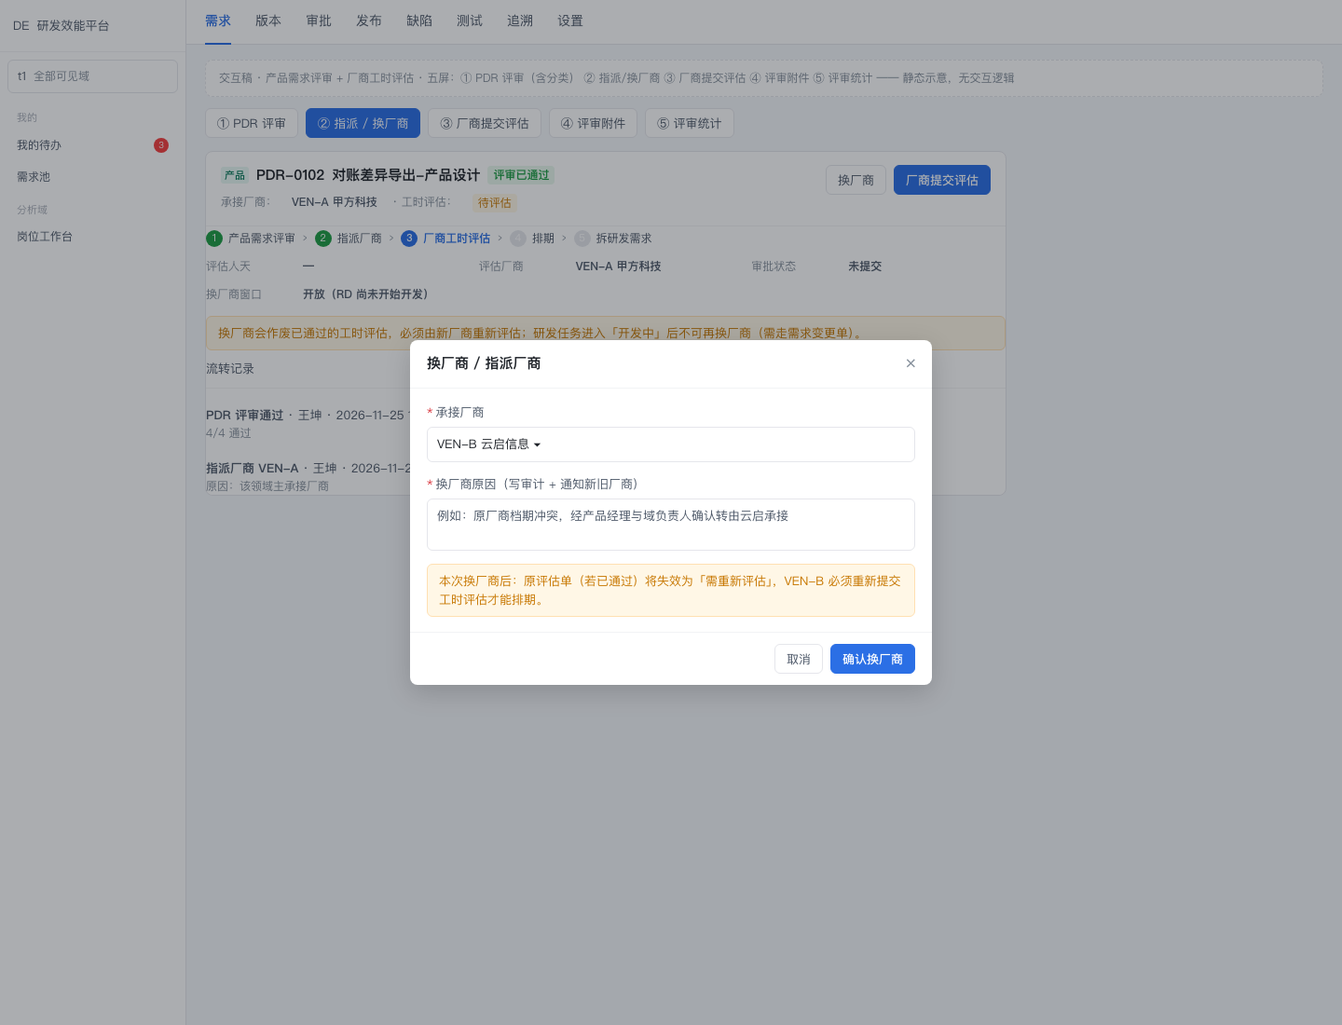
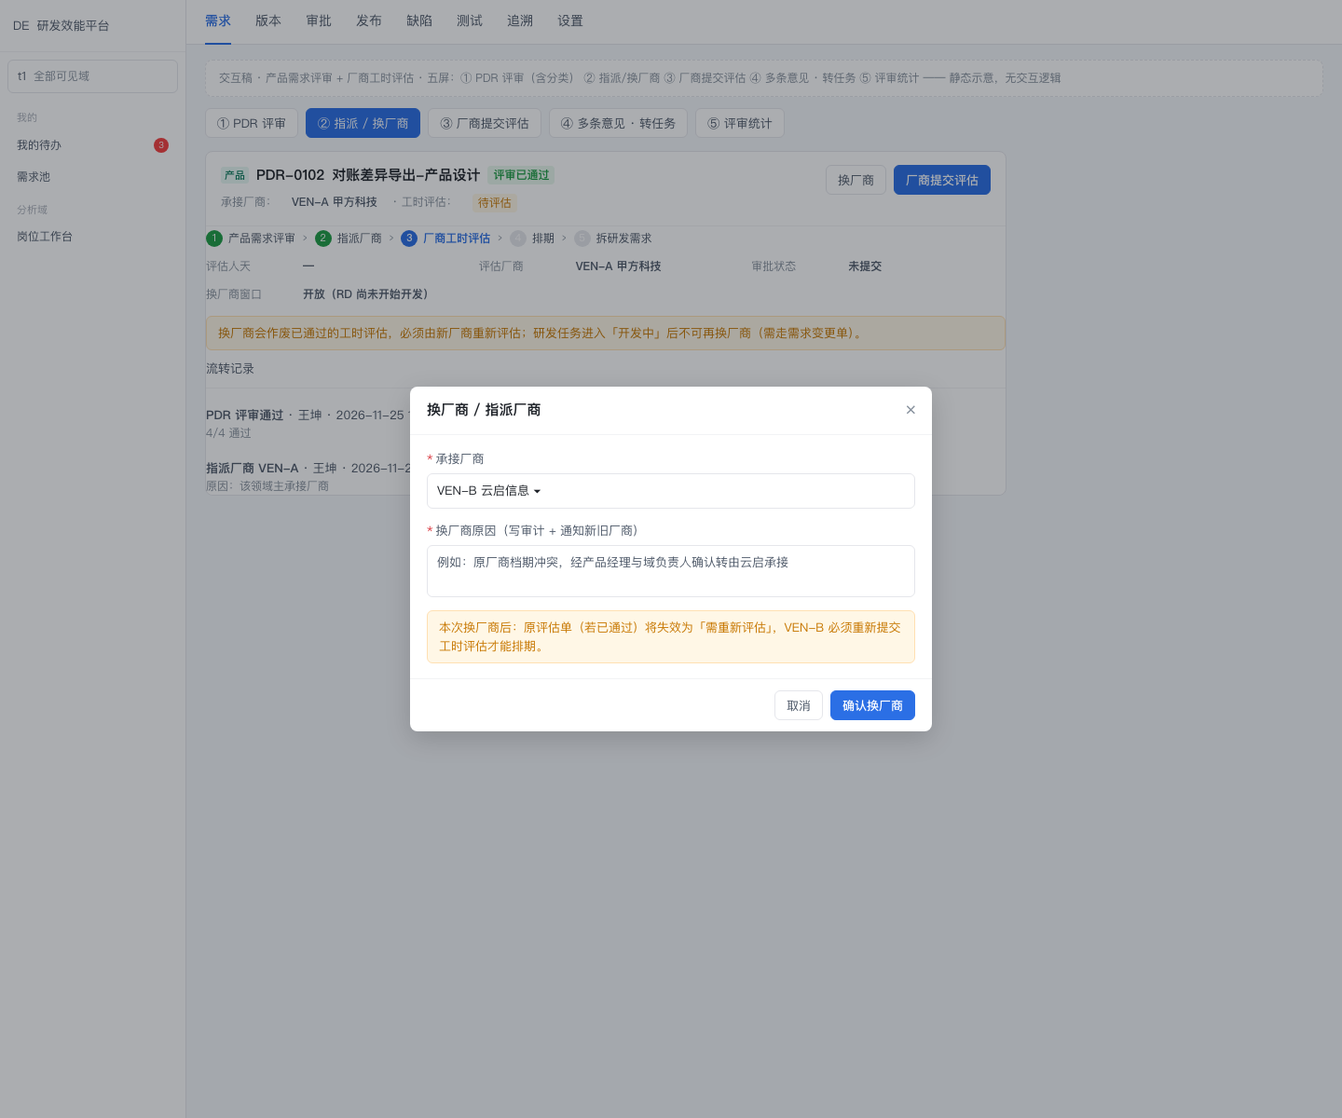
docs: 评审意见支持多条（每人 N 条、各自分类/结论/附件/状态）+ 意见一键转任务（复用交付任务表、回写 task_id、审计与重复转 409），补 D1–D4 验收与第 4 屏

diff --git a/docs/teamflow/prototype-pdr-review/index.html b/docs/teamflow/prototype-pdr-review/index.html
@@ -74,12 +74,12 @@
   <div class="main">
     <div class="topnav"><a class="active">需求</a><a>版本</a><a>审批</a><a>发布</a><a>缺陷</a><a>测试</a><a>追溯</a><a>设置</a></div>
     <div class="page">
-      <div class="proto-bar">交互稿 · 产品需求评审 + 厂商工时评估 · 五屏：① PDR 评审（含分类） ② 指派/换厂商 ③ 厂商提交评估 ④ 评审附件 ⑤ 评审统计 —— 静态示意，无交互逻辑</div>
+      <div class="proto-bar">交互稿 · 产品需求评审 + 厂商工时评估 · 五屏：① PDR 评审（含分类） ② 指派/换厂商 ③ 厂商提交评估 ④ 多条意见 · 转任务 ⑤ 评审统计 —— 静态示意，无交互逻辑</div>
       <div class="switcher">
         <button class="btn on" data-sec="s1">① PDR 评审</button>
         <button class="btn" data-sec="s2">② 指派 / 换厂商</button>
         <button class="btn" data-sec="s3">③ 厂商提交评估</button>
-        <button class="btn" data-sec="s4">④ 评审附件</button>
+        <button class="btn" data-sec="s4">④ 多条意见 · 转任务</button>
         <button class="btn" data-sec="s5">⑤ 评审统计</button>
       </div>
 
@@ -349,39 +349,62 @@
         </div>
       </section>
 
-      <!-- ============ 屏 4：评审附件 ============ -->
+      <!-- ============ 屏 4：多条意见 · 转任务 ============ -->
       <section class="sec" id="s4">
-        <div class="panel" style="max-width:860px">
-          <div class="detail-head">
-            <div>
-              <div class="detail-title"><span class="tag tag-pdr">产品</span> <span class="mono">PDR-0102</span> 对账差异导出-产品设计 <span class="pill pill-blue">评审中</span></div>
-              <div class="meta">当前登录：<b>陈晓 · 研发负责人（评审人）</b> · 评审单 #R-2081 · 截止 2026-11-27</div>
-            </div>
-            <div class="head-actions"><button class="btn">下载全部（3）</button></div>
+        <div class="page-head"><div class="page-title">评审意见 · 可一次提多条，逐条可转任务</div><div class="head-actions"><button class="btn">查看全部 6 条</button></div></div>
+        <div class="panel">
+          <div class="detail-head" style="border:0;padding-bottom:8px">
+            <div><span class="tag tag-pdr">产品</span> <b>PDR-0102</b> <span class="pill pill-blue">评审中</span>
+              <span class="muted" style="margin-left:8px">评审单 #R-2081 · 截止 2026-11-27</span></div>
+            <div class="muted">陈晓 · 研发负责人（评审人）</div>
           </div>
-
-          <div class="warn">附件只有「本次评审的评审人 / 发起人」能在评审进行中上传；评审结束后只读，下载仍走鉴权（越权 404）。</div>
-
-          <div class="panel" style="border:none">
-            <div class="panel-head" style="padding:0 0 10px"><span>我的评审意见</span><span class="muted">提交后可修改，直到结论生成</span></div>
-            <div class="field"><label>意见分类（必选，用于统计）</label>
-              <div class="cats"><span class="c">范围 / 需求理解</span><span class="c sel">技术可行性</span><span class="c">工期 / 排期</span><span class="c">风险 / 依赖</span><span class="c">验收标准</span><span class="c">界面 / 交互</span><span class="c">数据 / 兼容</span><span class="c">合规 / 安全</span><span class="c">其他</span></div>
+          <div class="hint warn" style="margin:0 0 12px">同一人可提多条；每条独立分类/结论/附件。评审结论仍按「全员通过」判定，不因多条放大票数。</div>
+          <div class="panel-body">
+            <div class="row" style="justify-content:space-between;margin-bottom:10px">
+              <b>我的意见（2 条）</b><button class="btn">+ 再加一条</button>
             </div>
-            <div class="field"><label>结论</label>
-              <div class="member-pick"><span class="m">通过</span><span class="m sel">需修改</span><span class="m">驳回</span></div>
-            </div>
-            <div class="field"><label>意见</label>
-              <div class="input" style="min-height:64px">导出走异步任务更稳，10 万行以内要能 1 分钟内完成；附上压测数据。</div>
-            </div>
-            <div class="field" style="margin:0">
-              <label>附件（最多 5 个，单个 ≤ 20MB）</label>
-              <div class="upload">＋ 上传附件（pdf / docx / xlsx / png / jpg / zip / csv / md）</div>
-              <div class="attach">
-                <span class="a"><span class="ic">XLS</span>10万行压测结果.xlsx · 620 KB</span>
-                <span class="a"><span class="ic">PDF</span>导出方案-v3.pdf · 1.8 MB</span>
+            <div class="card-item" style="cursor:default;border:1px solid var(--divider);background:#fff">
+              <div class="row" style="gap:8px;align-items:center">
+                <span class="muted">第 1 条</span><span class="cat on">技术可行性</span>
+                <span class="pill pill-orange">需修改</span>
+                <span class="muted" style="margin-left:auto">已转任务 <b>#1024</b></span>
               </div>
+              <div style="margin:8px 0;font-size:13px">导出走异步任务更稳，10 万行以内要能 1 分钟内完成；附压测数据。</div>
+              <div class="row" style="gap:6px"><span class="file">XLS 10万行压测结果.xlsx · 620 KB</span><span class="file">PDF 导出方案-v3.pdf · 1.8 MB</span></div>
+              <div class="row" style="margin-top:10px"><button class="btn" disabled>已转任务</button></div>
             </div>
-            <div class="modal-foot" style="border:none;padding:12px 0 0"><button class="btn">取消</button><button class="btn btn-primary">提交意见</button></div>
+            <div class="card-item" style="cursor:default;border:1px solid var(--divider);background:#fff">
+              <div class="row" style="gap:8px;align-items:center">
+                <span class="muted">第 2 条</span><span class="cat">验收标准</span>
+                <span class="pill pill-green">通过</span>
+                <span class="muted" style="margin-left:auto">待处理</span>
+              </div>
+              <div style="margin:8px 0;font-size:13px">建议把「导出字段与页面表头逐字一致」写进验收标准，避免后续口径漂移。</div>
+              <div class="row" style="gap:8px;margin-top:8px"><button class="btn">转为任务</button><button class="btn">撤回</button></div>
+            </div>
+            <div class="card-item" style="cursor:default;border-style:dashed;background:#FAFBFC">
+              <div class="row" style="gap:8px;align-items:center">
+                <span class="muted">新的一条</span><span class="cat on">范围 / 需求理解</span>
+                <span class="pill pill-gray">通过</span>
+              </div>
+              <textarea class="input" rows="2" style="width:100%;margin-top:8px">范围里写清「支持导出格式 = CSV / XLSX」，不要写"常见格式"。</textarea>
+              <div class="row" style="gap:8px;margin-top:8px"><span class="file">+ 上传附件</span><span class="muted">最多 5 个，单个 ≤20MB</span></div>
+            </div>
+            <div class="row" style="justify-content:flex-end;gap:8px;margin-top:12px">
+              <button class="btn">取消</button><button class="btn btn-primary">提交 3 条意见</button>
+            </div>
+            <div class="muted" style="margin-top:10px">评审关闭后不能再新增/修改意见，但已提意见仍可转任务（复盘落地）。</div>
+          </div>
+        </div>
+        <div class="panel" style="margin-top:12px">
+          <div class="panel-head"><span>「转为任务」弹层</span><span class="muted">缺省从意见推导，可改</span></div>
+          <div class="panel-body">
+            <div class="kv"><div class="k">任务标题</div><div class="v">导出改异步任务，10 万行 1 分钟内完成</div>
+              <div class="k">负责人</div><div class="v">陈晓 · DEV</div>
+              <div class="k">截止日期</div><div class="v">2026-12-02</div>
+              <div class="k">关联需求</div><div class="v">PDR-0102（源自评审 #R-2081）</div>
+              <div class="k">说明</div><div class="v">自动带「来源：PDR 评审 · 分类：技术可行性 · 原文」，可追加</div></div>
+            <div class="row" style="justify-content:flex-end;gap:8px;margin-top:10px"><button class="btn">取消</button><button class="btn btn-primary">创建任务</button></div>
           </div>
         </div>
       </section>

diff --git a/docs/teamflow/CHANGE-PDR-REVIEW-VENDOR-ESTIMATE.md b/docs/teamflow/CHANGE-PDR-REVIEW-VENDOR-ESTIMATE.md
@@ -89,7 +89,7 @@
 | `project` | `id, tenant_id, code, name, domain_id, owner_user_id, status(ACTIVE/ARCHIVED), created_at` | `uk(tenant_id, code)`；`idx(tenant_id, domain_id)` |
 | `project_member` | `id, tenant_id, project_id, user_id, role_in_project(PO/PM/DEV/QA/SME), active, joined_at` | `uk(project_id, user_id)`；`idx(tenant_id, user_id)` |
 | `pdr_review` | `id, tenant_id, requirement_id, project_id, instance_id, status(DRAFT/IN_REVIEW/PASSED/REJECTED/CANCELLED), conclusion, initiator_id, created_at, closed_at` | **`uk(requirement_id) where status='IN_REVIEW'`**（同一需求同时只允许 1 张在评）；`idx(tenant_id, status)` |
-| `pdr_review_opinion` | `id, tenant_id, review_id, reviewer_id, decision(PASS/NEED_CHANGE/REJECT), **category**, comment, created_at` | `uk(review_id, reviewer_id)`；`idx(tenant_id, category)`（统计用） |
+| `pdr_review_opinion` | `id, tenant_id, review_id, reviewer_id, seq(该评审人第几条), decision(PASS/NEED_CHANGE/REJECT), **category**, comment, **status(OPEN/TASKED/RESOLVED)**, **task_id**, created_at` | **不做 (review_id, reviewer_id) 唯一约束**（同一人可提多条）；`idx(review_id)`、`idx(tenant_id, category)`、`idx(task_id)` |
 
 ### 4.2 评审附件（复用既有附件表，不新增表）
 
@@ -134,6 +134,26 @@
 - 评审人维度：每人发起/参与/意见数/需修改比例。
 - 维度表：`pdr_review`（评审单）、`pdr_review_opinion`（意见）作为新数据集进分析域，供 `/reports` 自助报表与看板直接取数（复用既有 `AnalyticsDatasets` 白名单机制，**不写第二套 SQL 引擎**）。
 
+### 4.5 多条意见与「意见转任务」
+
+**为什么允许多条**：一条评审意见通常只针对一个点（范围、性能、验收口径……），把它们塞进一段文字里，既无法分类统计，也无法逐条跟踪闭环。所以：
+
+- 同一次评审、同一个人可以提 **N 条意见**（`seq` 递增，不设唯一约束），每条独立拥有 `category / decision / comment / 附件 / status`；
+- **评审结论仍由评审单整体判定**（`MODE_ALL` 等），不因某人不通过而"每人只能一条"——多条意见属于"一个人提了几个问题"，不是"投了几票"；统计口径里"意见"与"评审单"分开算（见 4.4）。
+- 每条意见有生命周期：`OPEN`（待处理）→ `TASKED`（已转任务）→ `RESOLVED`（任务完成/问题消除）；`decision=REJECT` 的意见可标 `RESOLVED` 结案，不必都转任务。
+
+**意见转任务**（把评审结论变成可执行动作，闭环的关键）：
+
+| 项 | 说明 |
+|---|---|
+| 端点 | `POST /pdr-reviews/{reviewId}/opinions/{opinionId}/to-task` |
+| 请求 | `{assigneeId?, dueDate?, estimateHours?, title?, description?}`（都可选，缺省从意见推导） |
+| 落库 | 复用交付域 `task` 表（`deliver-service`）：`title` 缺省取意见前 40 字、`description` 带「来源：PDR 评审 #reviewId · 分类 · 原文」、`requirementId` 挂该 PDR 的父 RD 或 PDR 本身（PDR 无任务归属时挂 PDR） |
+| 回写 | `pdr_review_opinion.task_id` = 新任务 id、`status = TASKED`；写入 `audit_log`（`PDR_OPINION_TO_TASK`，detail 带 opinionId/taskId/category） |
+| 限制 | 已转过的意见再转 → `409 OPINION_ALREADY_TASKED`（detail 带既有 `taskId`）；非本评审评审人且非产品经理 → `403 NOT_ALLOWED`；**评审结束后仍可转任务**（复盘落地属后续动作，不随评审关闭而禁止） |
+| 可见性 | 任务继承 `ScopeSql` 行级隔离；厂商评审人转出的任务只能落在本厂商承接范围（越界 `403 OUT_OF_SCOPE`） |
+| 统计 | `/pdr-reviews/stats` 增加 `taskedCount` 与「意见闭环率 = TASKED+RESOLVED / 全部意见」两个度量 |
+
 ## 5. 接口变更
 
 ### 5.1 新增
@@ -146,6 +166,8 @@
 | `POST` | `/pdr-reviews/{reviewId}/opinions` | 评审人提交意见：`{decision, **category**, comment}`（`category` 必填，非法值 400 `INVALID_CATEGORY`） | 动作码 `req.action.pdr_review_opinion` |
 | `POST` | `/pdr-reviews/{reviewId}/conclude` | 汇总结论（**也可以全票后自动汇总**，见 §6 R2） | 动作码 `req.action.pdr_review_conclude` |
 | `GET` | `/requirements/{id}/pdr-review` | 读评审单 + 意见列表 | 页面码 `req.pool` |
+| `POST` | `/pdr-reviews/{reviewId}/opinions/{opinionId}/to-task` | 意见转任务（见 4.5），返回 `{taskId, taskCode}` | 动作码 `req.action.pdr_review_task` |
+| `GET` | `/requirements/{id}/pdr-review/opinions` | 意见列表：支持 `?reviewerId&category&status&page&size`（多条意见分页） | 页面码 `req.pool` |
 | `GET` | `/pdr-reviews/stats` | 意见分类统计：`?domainId&from&to&groupBy=CATEGORY\|REVIEWER\|DECISION` → 计数 / 占比 / 平均评审时长 | 页面码 `req.pool`（读） |
 | `GET` | `/pdr-reviews/datasets` | 分析域数据集白名单元信息（`pdr_review`、`pdr_review_opinion`，含维度/度量） | 复用 `/reports/datasets` 机制 |
 
@@ -174,6 +196,7 @@
 - **R4 厂商评估**：厂商账号（`VENDOR_PM` 与厂商研发）可提交评估，且 `requirement.assignee_vendor_id == user.vendorId`，否则 `403 OUT_OF_SCOPE`；内部 PMO/研发**保留提交权**（缺省保留，便于兜底），但同样要求先指派厂商。
 - **R5 幂等与并发**：同一需求同时只有 1 张 `IN_REVIEW` 评审单、1 张 `ACTIVE` 评估单；并发发起/重复提交用唯一约束 + 409 兜底；换厂商与提交评估加乐观锁（`version`）避免「换厂商后立刻被旧厂商提交评估」。
 - **R7 评审附件**：`bizType=PDR_REVIEW` 时，服务层校验「调用者是本次评审的评审人或发起人」且「评审单状态 = IN_REVIEW」，否则 `403 NOT_REVIEWER` / `409 REVIEW_CLOSED`；上传沿用 20MB 上限与 `sha256`；类型白名单（缺省 `pdf/docx/xlsx/png/jpg/zip/csv/md`），非白名单 `415 UNSUPPORTED_MEDIA_TYPE`；**不落公开 URL**，下载一律过鉴权（越权 404，不泄露存在性）；评审结束后附件只读，删除 → 409 `REVIEW_CLOSED`。
+- **R8 多条意见与转任务**：`POST .../opinions` 不做「同人唯一」校验，每次新建一条（`seq` 自动递增，可一次提交多条 `opinions[]`）；`to-task` 只能由本评审评审人/产品经理发起、每 opinion 只成功一次（`409 OPINION_ALREADY_TASKED`）、任务创建与 `task_id` 回写同事务、跨服务失败回滚并返回 `503 TASK_CREATE_UNAVAILABLE`；评审单关闭后 `to-task` 仍可用，但禁止再新增/修改意见（`409 REVIEW_CLOSED`）。
 - **R6 审计**：`PDR_REVIEW_START` / `PDR_REVIEW_OPINION` / `PDR_REVIEW_REJECT` / `PDR_REVIEW_PASS` / `VENDOR_CHANGED` / `ESTIMATE_STALE_BY_VENDOR`，全部进动态流与追溯。
 
 ## 7. 权限与动作码
@@ -192,12 +215,13 @@
 ![PDR 评审](prototype-pdr-review/shot-1-pdr-review.png)
 ![指派/换厂商](prototype-pdr-review/shot-2-vendor-transfer.png)
 ![厂商提交评估](prototype-pdr-review/shot-3-vendor-estimate.png)
-![评审附件](prototype-pdr-review/shot-4-review-attachments.png)
+![多条意见与转任务](prototype-pdr-review/shot-4-opinions-to-task.png)
 ![评审统计](prototype-pdr-review/shot-5-review-stats.png)
 
 
 0. **意见分类**：提交意见时先选分类（9 个 chip，单选，必填），意见卡左上角展示分类标签；评审 tab 顶部一行「分类分布」小条形（范围 3 / 技术 1 / 工期 2 …），点分类可过滤意见列表。
-0.1 **统计视图**：分析域「评审质量」看板卡：各分类意见数堆叠柱、需修改率、平均评审时长 P90、按评审人 Top N（复用 `MetricFormulas` 同源口径）。
+0.1 **多条意见**：提交意见区改成「意见列表」——点「+ 再加一条」逐条填（分类 chip + 结论 + 正文 + 附件），一次提交多条；已提意见卡片右侧有「转为任务」按钮（已转则显示 `TASKED · 任务 #123` 与链接），支持按分类/状态过滤。
+0.2 **统计视图**：分析域「评审质量」看板卡：各分类意见数堆叠柱、需修改率、平均评审时长 P90、按评审人 Top N（复用 `MetricFormulas` 同源口径）。
 0. **评审附件**：发起评审弹窗里可先挂「评审材料」；每位评审人提交意见时可附 1–5 个附件（截图里是「规格说明.pdf / 差异样例.xlsx」这类），意见卡下方展示附件 chip（文件名 + 大小 + 下载）；评审结束后 chip 变只读、无删除按钮。
 1. **PDR 详情新增「评审」tab**：发起按钮 + 评审人选择（只能选项目组成员，多选）+ 说明；列表展示每人「通过/需修改/驳回 + 意见 + 时间」；顶部结论条（N/M 已评）。
 2. **指派厂商弹窗改造**：加「换厂商会作废已通过的工时评估，需重新评估」的黄色提示；原因必填；`IN_DEV` 后按钮禁用并给原因。
@@ -209,7 +233,7 @@
 | 样例 | 期望 |
 |---|---|
 | 项目 | `DEMO-PROJ-1 供应链平台`，成员 5 人（产品经理/域负责人/研发/测试/厂商 PM） |
-| PDR-1 | 待评审（评审单 IN_REVIEW，2/4 已评），带 2 个评审附件（`规格说明.pdf`、`差异样例.xlsx`）；已有意见覆盖 3 个分类（RANGE/TECH/ACCEPTANCE） |
+| PDR-1 | 待评审（评审单 IN_REVIEW，2/4 已评），带 2 个评审附件（`规格说明.pdf`、`差异样例.xlsx`）；已有 **6 条意见**（王坤 3 条：2 RANGE + 1 ACCEPTANCE；李雯 2 条：1 TECH + 1 DATA；陈晓 1 条 TECH/NEED_CHANGE），其中 1 条已转任务（`TASKED`，任务 #1024，`OPEN` 5 条） |
 | PDR-2 | 评审通过、已指派 VEN-A、待提交评估 |
 | PDR-3 | 评审通过、VEN-A 评估通过、已排期 |
 | RD | 挂在 PDR-3 下，`TODO`（可用于演示换厂商 → 评估失效） |
@@ -232,12 +256,16 @@
 | B7 | 非本评审的评审人上传 | 403 `NOT_REVIEWER` |
 | B8 | 评审结束后再上传/删除 | 409 `REVIEW_CLOSED`；下载仍可（只读） |
 | B9 | 上传 25MB 文件 / 上传 `.exe` | 413 `FILE_TOO_LARGE` / 415 `UNSUPPORTED_MEDIA_TYPE` |
+| D1 | 同一评审人一次提交 3 条意见 | 落 3 行（`seq=1/2/3`），`stats` 计数 3、分类分布各 +1；评审单结论仍按 `MODE_ALL` 计算，不因多条放大票数 |
+| D2 | 意见转任务（指定负责人+截止） | 201 返回 `taskId/taskCode`；任务在「我的任务」可见且 `requirementId` 正确；`opinion.status=TASKED`、`task_id` 回写、审计 `PDR_OPINION_TO_TASK` 存在 |
+| D3 | 同一意见重复转任务 | 409 `OPINION_ALREADY_TASKED`（detail 带既有 `taskId`），任务表不新增行 |
+| D4 | 非评审人转任务 / 评审关闭后新增意见 | 403 `NOT_ALLOWED` / 409 `REVIEW_CLOSED`；评审关闭后 `to-task` 仍 201（复盘落地） |
 | C1 | 提交意见不带 `category` / 传 `category=FOO` | 400 `INVALID_CATEGORY`（`detail.allowed[]` 含 9 个 code） |
 | C2 | 一次评审 6 条意见（3 RANGE / 2 TECH / 1 ACCEPTANCE） | `GET /pdr-reviews/stats?groupBy=CATEGORY` 返回与明细逐分类相等，占比合计 100% |
 | C3 | 同一批数据在 `/reports` 用新数据集 `pdr_review_opinion` 拉交叉表 | 与 `/pdr-reviews/stats` 数字逐项相等（同源断言） |
 | C4 | 统计按域/厂商隔离 | 厂商账号的 `stats` 只统计本厂商可见评审（与明细条数一致） |
 
-门禁：既有 9 套不得降（`rbac` / `access` / `platform` / `negative` / `release-flow` / `gate-order` / `automation` / `change` / `demo-reset`）；新增 `scripts/pdr-flow-verify.sh` ≥30 条断言（含 A1–A5、B1–B9、C1–C4、换厂商幂等与附件越权），接入 `make test`。
+门禁：既有 9 套不得降（`rbac` / `access` / `platform` / `negative` / `release-flow` / `gate-order` / `automation` / `change` / `demo-reset`）；新增 `scripts/pdr-flow-verify.sh` ≥34 条断言（含 A1–A5、B1–B9、C1–C4、D1–D4、换厂商幂等与附件越权），接入 `make test`。
 
 ## 11. 迁移与兼容
 
@@ -251,6 +279,7 @@
 **后端**：`requirement`（服务/控制器/规则/错误码）、`approval`（新单据类型 + 回调）、`estimate`（vendors 绑定）、`sys`（项目组 CRUD）、`platform-contract`（动作码/状态表）、`platform-common`（路由表）、迁移 2 条。
 **前端**：需求详情（评审 tab、评估卡、指派厂商弹窗）、项目组管理页、审批中心（新单据类型文案）、动作按钮禁用原因。
 **附件**：`AttachmentService.normalizeType` 加 `PDR_REVIEW`、`resolveBiz` 增加评审单归属解析、上传/删除的评审态校验、前端评审 tab 附件区。
+**多条意见与转任务**：意见表去掉「同人唯一」、加 `seq/status/task_id`；`to-task` 跨域调用交付域任务创建（`deliver-service` `/tasks` 或内部接口），需定义跨服务失败语义（503 + 回滚）与审计；前端意见列表化 + 「转为任务」按钮 + 已转状态展示。
 **统计**：`sys_dict` 加 `review_opinion_category` 字典、`/pdr-reviews/stats` 聚合（单条 SQL 按 category/reviewer/decision 分组，避免 N+1）、分析域新增两个数据集进 `AnalyticsDatasets` 白名单、看板卡与自助报表复用 `MetricFormulas` 同源口径。
 **脚本/数据**：`platform-demo-reset.sh`（新夹具）、`pdr-flow-verify.sh`（新门禁）、`SeedService`（项目组种子）、`DEMO-BY-ROLE.md`、`FLOW-CONTROL-AUDIT.md`。
 
@@ -262,6 +291,7 @@
 | 存量数据无项目组 | 老 PDR 无法评审 | 回退规则（产品经理 + 域负责人）并标记 `fallback` |
 | 状态机改动面大 | 旧门禁/演示脚本红 | 不改 PDR 状态机（用门禁而非新态），把风险限制在规则层 |
 | 厂商权限放大 | 越权看到别家需求 | 复用既有 `ScopeSql` 行级隔离 + `OUT_OF_SCOPE` 负向断言 |
+| 意见条数失控 / 每条都转任务 | 评审冗长、任务爆炸 | 不限制条数但列表分页 + 按分类过滤；`to-task` 由评审人/产品经理主动触发（不自动批量转）；统计给「意见闭环率」暴露积压 |
 | 分类体系设计不当 | 统计维度失真、填了没用 | 先给 9 类最小集合 + `OTHER` 兜底；字典可配、后续按实际使用率收敛；统计口径三处同源断言（C2/C3） |
 | 评审附件被滥用（大文件/恶意类型/越权下载） | 存储膨胀、信息泄露 | 20MB 上限 + 类型白名单 + `sha256` + 鉴权下载（越权 404）+ 评审结束只读；病毒扫描列为 P2（接 ClamAV 或不接，需产品确认） |
 
@@ -273,5 +303,5 @@
 ## 14. 交付物清单
 
 1. `docs/teamflow/CHANGE-PDR-REVIEW-VENDOR-ESTIMATE.md` + `.html`（本文）
-2. `docs/teamflow/prototype-pdr-review/index.html`（5 屏交互稿：PDR 评审（含分类）/ 指派换厂商 / 厂商评估 / 评审附件 / 评审统计）+ 截图
+2. `docs/teamflow/prototype-pdr-review/index.html`（5 屏交互稿：PDR 评审（含分类）/ 指派换厂商 / 厂商评估 / 多条意见·转任务（含附件）/ 评审统计）+ 截图
 3. 流水线 PRD（由 TeamFlow 依据本文生成）→ 设计 → 技术方案 → 开发 → QA → 验收
